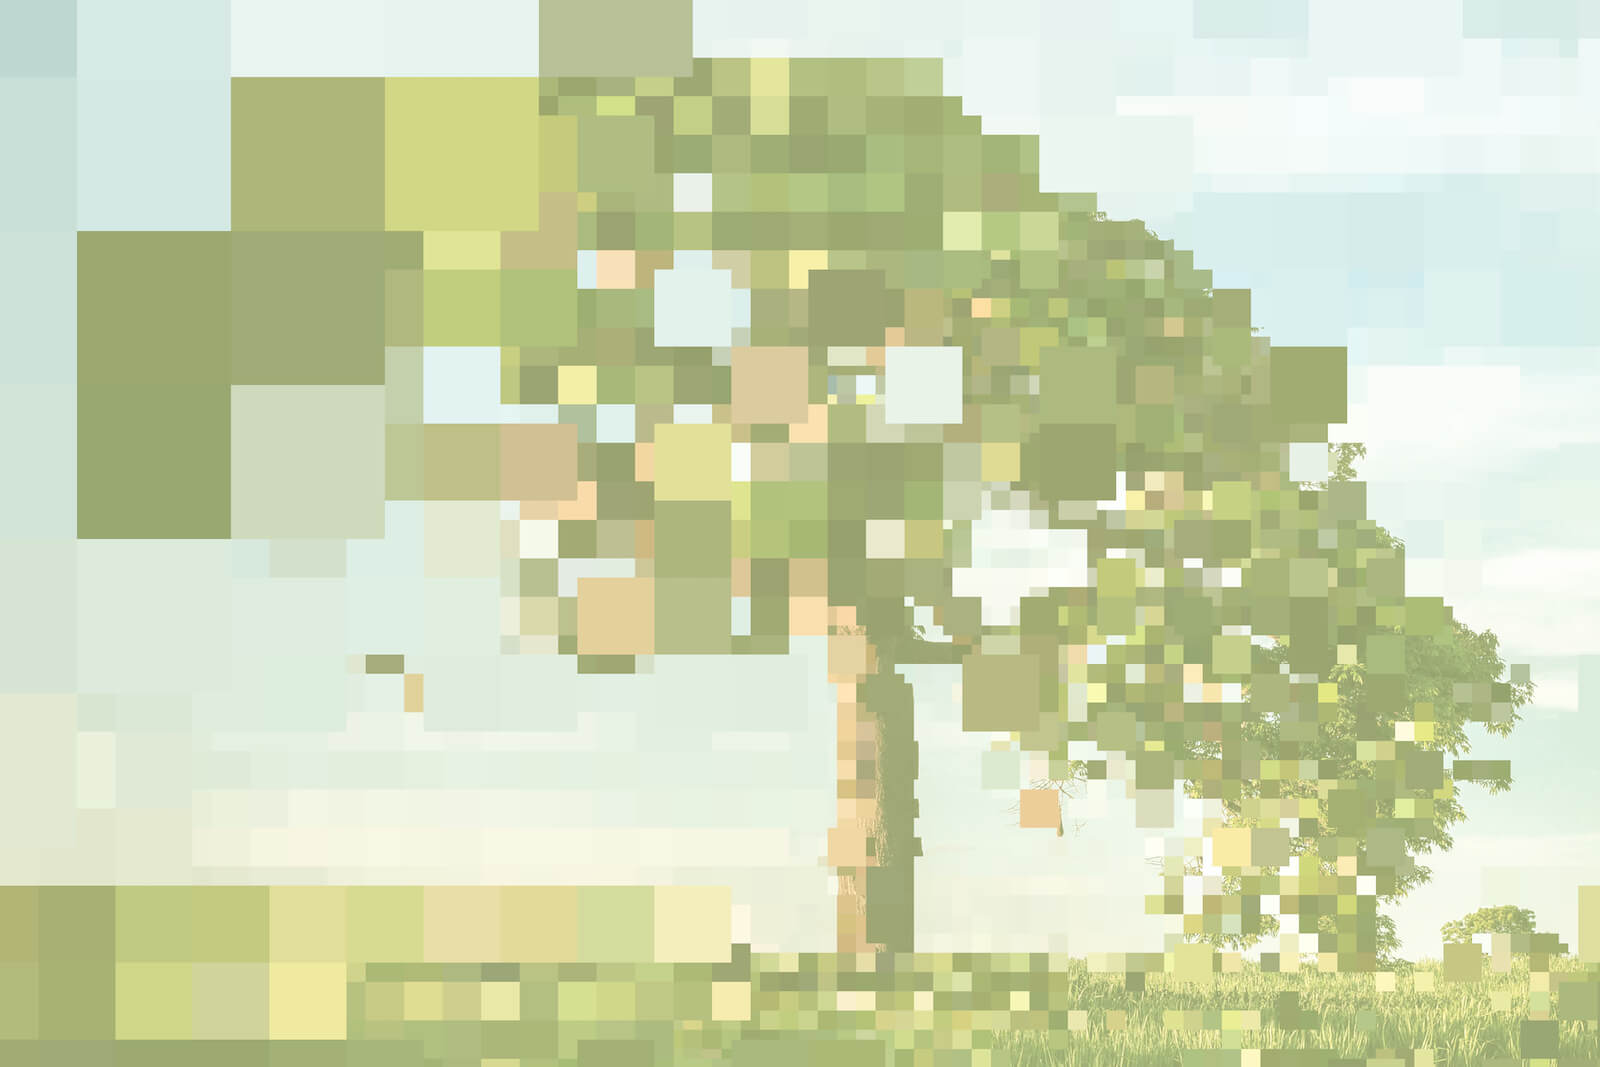
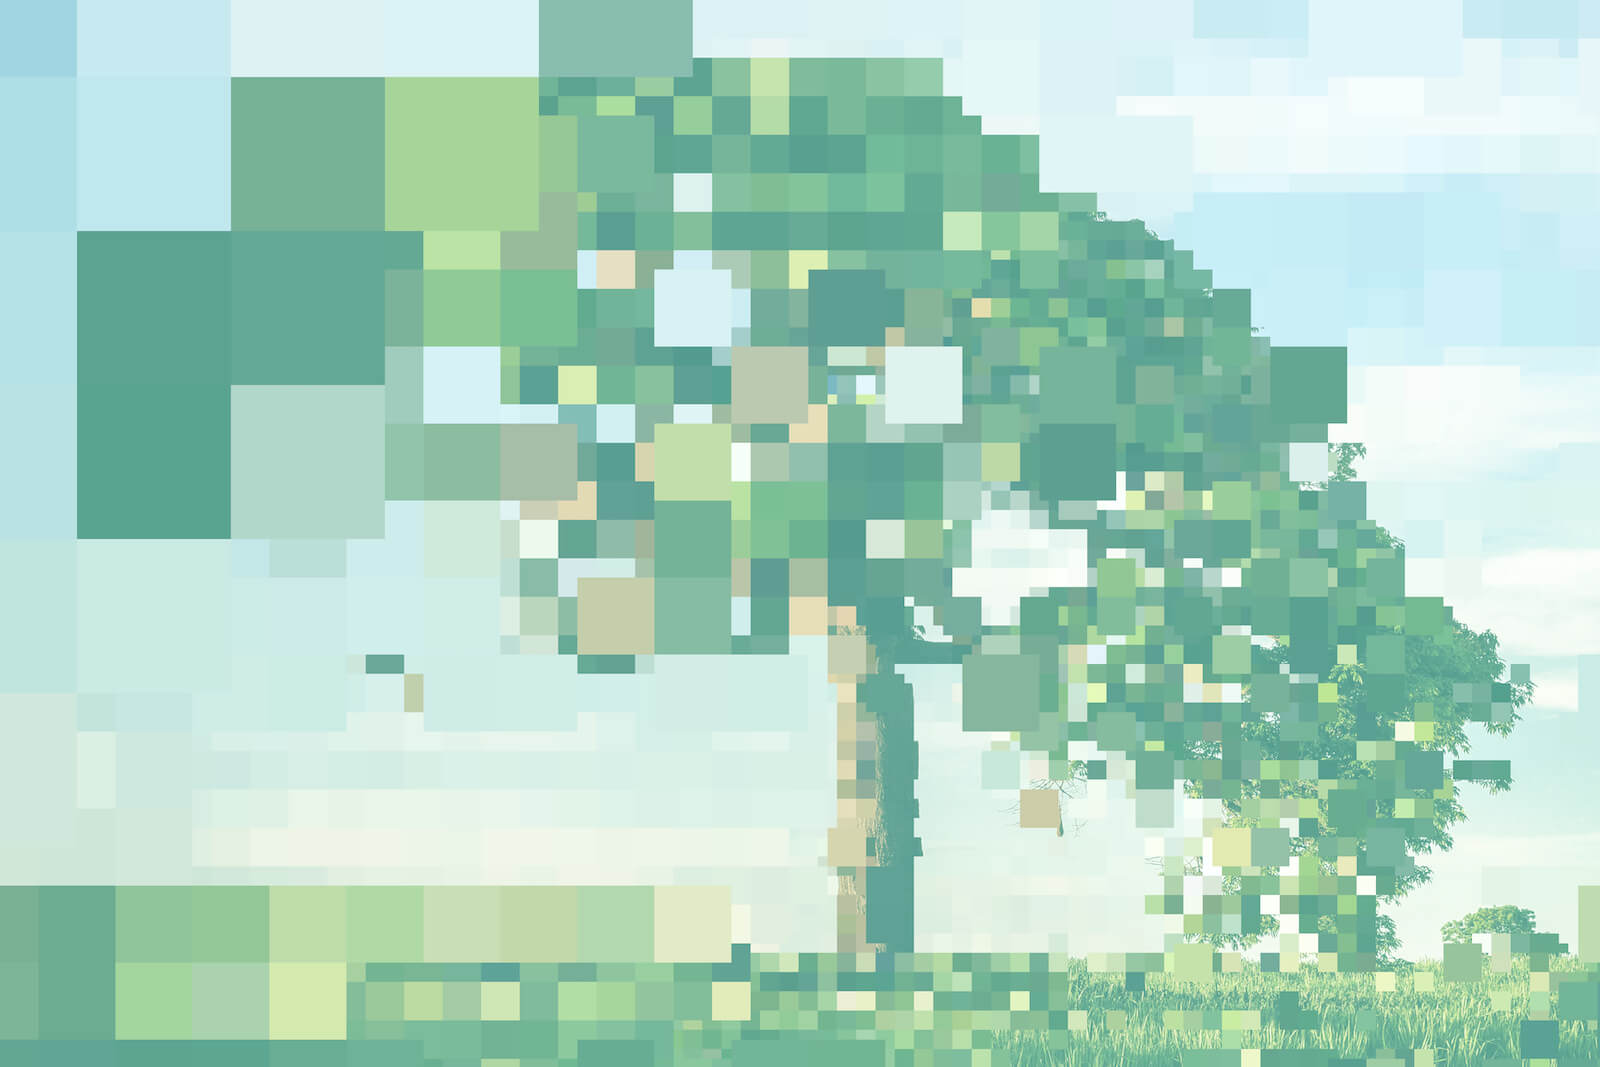
Change colors and update scenario texts

diff --git a/src/components/Scenarios.tsx b/src/components/Scenarios.tsx
@@ -22,60 +22,61 @@ const allScenarios: ScenarioModel[] = [
   {
     title: "Green media service design",
     description:
-      "Media services offer options that help consumers use their content sustainably. Methods for saving data and electricity include web site optimization, using lower video quality, reducing video autoplay, or creating a low-carbon mode, where all of these methods are in use.",
+      "Media services offer options that help consumers use their content sustainably. Methods for saving data and electricity include web site optimization, using lower video quality, reducing video autoplay, or a site-wide low-carbon mode, where all of these methods are in use.",
     image: s1,
     actor: "Consumer",
     enabler: "Media companies",
     effects: [
       "+ Educates consumers about environmental impact",
-      "+ Impacts Scope 3 emissions, which are the most relevant emission source",
-      "+ A modal shift that does not require using less content",
+      "+ Impacts Scope 3 emissions, which are the most significant emission type in digital media",
+      "+ A modal shift that does not require consuming less content",
       "- Risk of no impact unless consumer makes the choice",
+      "- Responsibilizing the consumer",
     ],
   },
   {
     title: "Sustainable distribution practices",
     description:
-      "Media companies engineer their digital services in ways that take the environment into account every step of the way. Features using excessive data and energy, such as HD video on mobile, autoplay, and endless scrolling are removed or optimized without consumer choice. Ad views and ad distribution networks are optimized to be more sustainable.",
+      "Media companies engineer their digital services in ways that take the environment into account on all stages. Features using excessive data and energy, such as HD video on mobile, autoplay, and endless scrolling are removed or optimized without consumer choice. Ad views and ad distribution networks are optimized to be more sustainable.",
     image: s2,
     actor: "Media companies",
     enabler: "Stakeholder groups",
     effects: [
-      "+ Impacts Scope 3 emissions, which are the most relevant emission source",
-      "+ Changes visible to consumers are small",
+      "+ Impacts Scope 3 emissions, which are the most significant emission source",
+      "+ Changes visible to consumers are minor",
       "+ Lessens addictive and attention-heavy media use",
-      "- Time spent in media services could diminish",
-      "- No clear advertiser benefit, or can be seen as a negative by advertisers",
-      "- Needs to be accepted by all stakeholders",
+      "- Overall time spent in media services can diminish",
+      "- No clear advertiser benefit, or can be seen negatively by advertisers",
+      "- Needs broad stakeholder acceptance",
     ],
   },
   {
     title: "Incentivicing journalists",
     description:
-      "Journalists and content producers are incentivised and rewarded for environmentally conscious practices. They are rewarded for including environmental aspects to stories, using sustainable content formats, and making environmentally conscious choices when travelling for stories. The criteria may also be visible to consumers.",
+      "Journalists and content producers are incentivised and rewarded for environmentally conscious practices. They are rewarded for including environmental aspects to stories, using sustainable content formats, and making environmentally conscious choices when traveling for stories. The criteria may also be visible to consumers.",
     image: s3,
     actor: "Journalists",
     enabler: "Media companies",
     effects: [
-      "+ Educates about environmental themes in the society",
+      "+ Generates awareness of environmental themes in the society",
       "+ More agency to journalists",
-      "- Shifting responsibility to journalists",
+      "- Responsibilizing journalists",
       "- No direct impact on Scope 3 emissions",
-      "+ Could still have an effect on consumer actions",
+      "+ Could impact consumer behavior",
     ],
   },
   {
     title: "Raising Awareness",
     description:
-      "Media companies try to raise consumer awareness about the impact of digital media by making it visible in their services, e.g. in the form of meters or budgets. These would let the consumer follow the environmental impact of their own actions in real time. Environmentally sound consumership can also be supported via pricing.",
+      "Media companies raise consumer awareness about the impact of digital media by making it visible in their services, for example in the form of carbon meters or budgets. These would let the consumer trace the environmental impact of their own actions in real time. Environmentally sound consumership can also be supported via pricing.",
     image: s4,
     actor: "Consumers",
     enabler: "Media companies",
     effects: [
-      "+ Educates about environmental impact",
-      "+ Links individual consumer behaviour to its environmental impact",
-      "+ A user can follow their own action’s impact",
-      "- No emissions are saved without consumer action",
+      "+ Generates awareness of environmental impact",
+      "+ Links consumer behavior and its environmental impact",
+      "+ User can follow their own impact",
+      "- No emission reduction without consumer action",
       "- Will likely lessen time spent in media services",
       "- Requires exact measurements of data and electricity use",
     ],
@@ -88,26 +89,26 @@ const allScenarios: ScenarioModel[] = [
     actor: "Media companies",
     enabler: "Governing bodies",
     effects: [
-      "+ Educates about environmental impact",
-      "+ Effective for reducing Scope 3 emissions",
-      "+ Same responsibilities for everyone",
-      "- Requires exact measuring for data and electricity usage of services",
-      "- Requires large operational and technological changes in every media company",
+      "+ Generates awareness of environmental impact",
+      "+ Effectively reduces Scope 3 emissions",
+      "+ Equal responsibilities across the industry",
+      "- Requires exact measurements of data and electricity use",
+      "- Requires large operational and technological changes in all media companies",
     ],
   },
   {
     title: "OS and browser heroes",
     description:
-      "Companies that own the digital platforms, such as browser and OS manufacturers, decide to make browsing websites and using applications sustainable. The consumer can use browser features and add-ons to prevent loading environmentally unsound digital media, and app stores set limits to how energy-hungry applications can be.",
+      "Digital platform companies, such as browser and OS manufacturers and app stores, provide sustainable browsing add-ons and set sustainability requirements for applications. The consumer can use browser features and add-ons to prevent loading environmentally unsound digital media, and app stores set limits to how energy-hungry applications can be.",
     image: s6,
     actor: "Consumer",
     enabler: "Platform companies",
     effects: [
-      "+ Educates about environmental impact",
+      "+ Generates awareness of environmental impact",
       "+ Very effective in reducing Scope 3 emissions",
-      "+ Same requirements to all actors",
-      "- Requires exact measurements on data and electricity usage",
-      "- Requires large technology changes in every media company",
+      "+ Equal responsibilities across the industry",
+      "- Requires exact measurements of data and electricity use",
+      "- Requires large technological changes in all media applications",
     ],
   },
 ];

diff --git a/src/components/common-components.tsx b/src/components/common-components.tsx
@@ -77,27 +77,27 @@ export const SmallP = styled(P)`
 // eslint-disable-next-line react-refresh/only-export-components
 export const A = styled.a`
   ${theme.fontBold};
-  color: ${theme.colors.green};
+  color: ${theme.colors.darkGreen};
 
   &:hover {
-    color: ${brighten(theme.colors.green)};
+    color: ${brighten(theme.colors.darkGreen)};
   }
 
   &:visited {
-    color: ${theme.colors.green};
+    color: ${theme.colors.darkGreen};
   }
 `;
 
 export const StyledLink = styled(Link)`
   ${theme.fontBold};
-  color: ${theme.colors.green};
+  color: ${theme.colors.darkGreen};
 
   &:hover {
-    color: ${brighten(theme.colors.green)};
+    color: ${brighten(theme.colors.darkGreen)};
   }
 
   &:visited {
-    color: ${theme.colors.green};
+    color: ${theme.colors.darkGreen};
   }
 `;
 

diff --git a/src/components/generic/SliderInput.tsx b/src/components/generic/SliderInput.tsx
@@ -96,11 +96,11 @@ const SliderInput = (props: SliderInputProps) => {
                   hoveredValue === step.step
                     ? brighten(
                         step.step === value
-                          ? theme.colors.green
+                          ? theme.colors.darkGreen
                           : theme.colors.grey(3)
                       )
                     : step.step === value
-                    ? theme.colors.green
+                    ? theme.colors.darkGreen
                     : theme.colors.grey(3),
               }}
               $widthPercentage={100 / stepsWithImpact.length}

diff --git a/src/components/generic/OptionsSelector.tsx b/src/components/generic/OptionsSelector.tsx
@@ -113,11 +113,11 @@ const OptionsSelector = <T extends string | boolean>(
                   hoveredValue === o.value
                     ? brighten(
                         o.value === value
-                          ? theme.colors.green
+                          ? theme.colors.darkGreen
                           : theme.colors.grey(3)
                       )
                     : o.value === value
-                    ? theme.colors.green
+                    ? theme.colors.darkGreen
                     : theme.colors.grey(3),
               }}
             />

diff --git a/src/theme.ts b/src/theme.ts
@@ -31,10 +31,10 @@ const grey = (step: number): string => {
 export const colors = {
   black: "black",
   white: "#ffffff",
-  green: "#779D35",
-  darkGreen: "#2E410C",
+  green: "#5BA196",
+  darkGreen: "#225C53",
   grey,
-  categories: ["#2E410C", grey(2), "#779D35", grey(1)],
+  categories: ["#225C53", grey(2), "#5BA196", grey(0)],
 };
 
 export const theme = {
